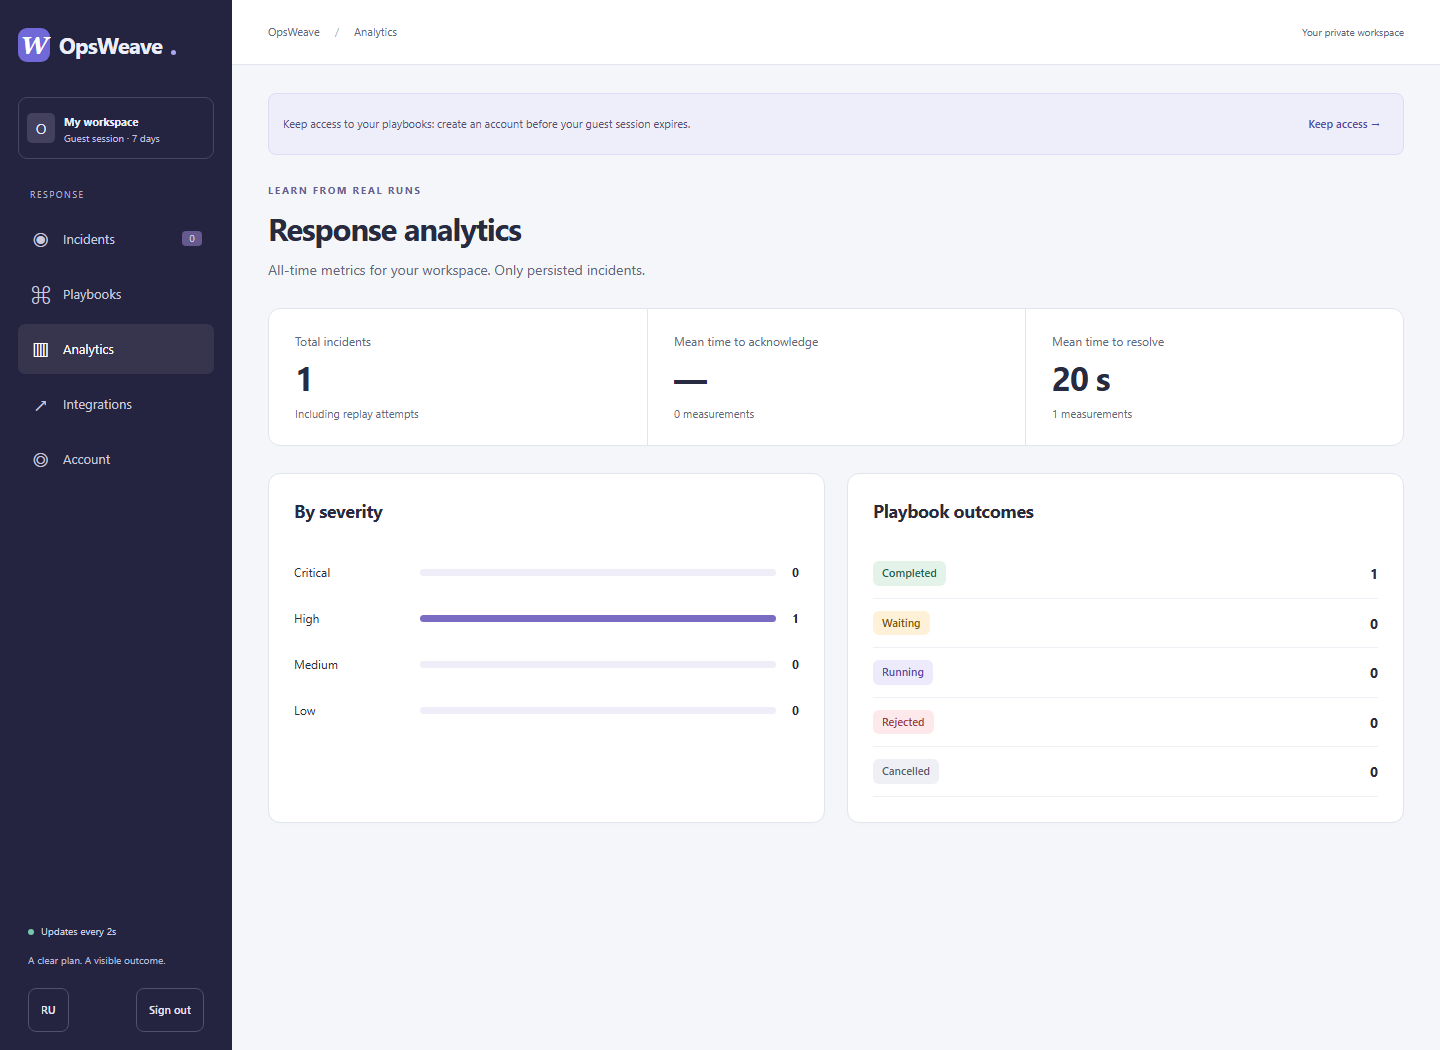
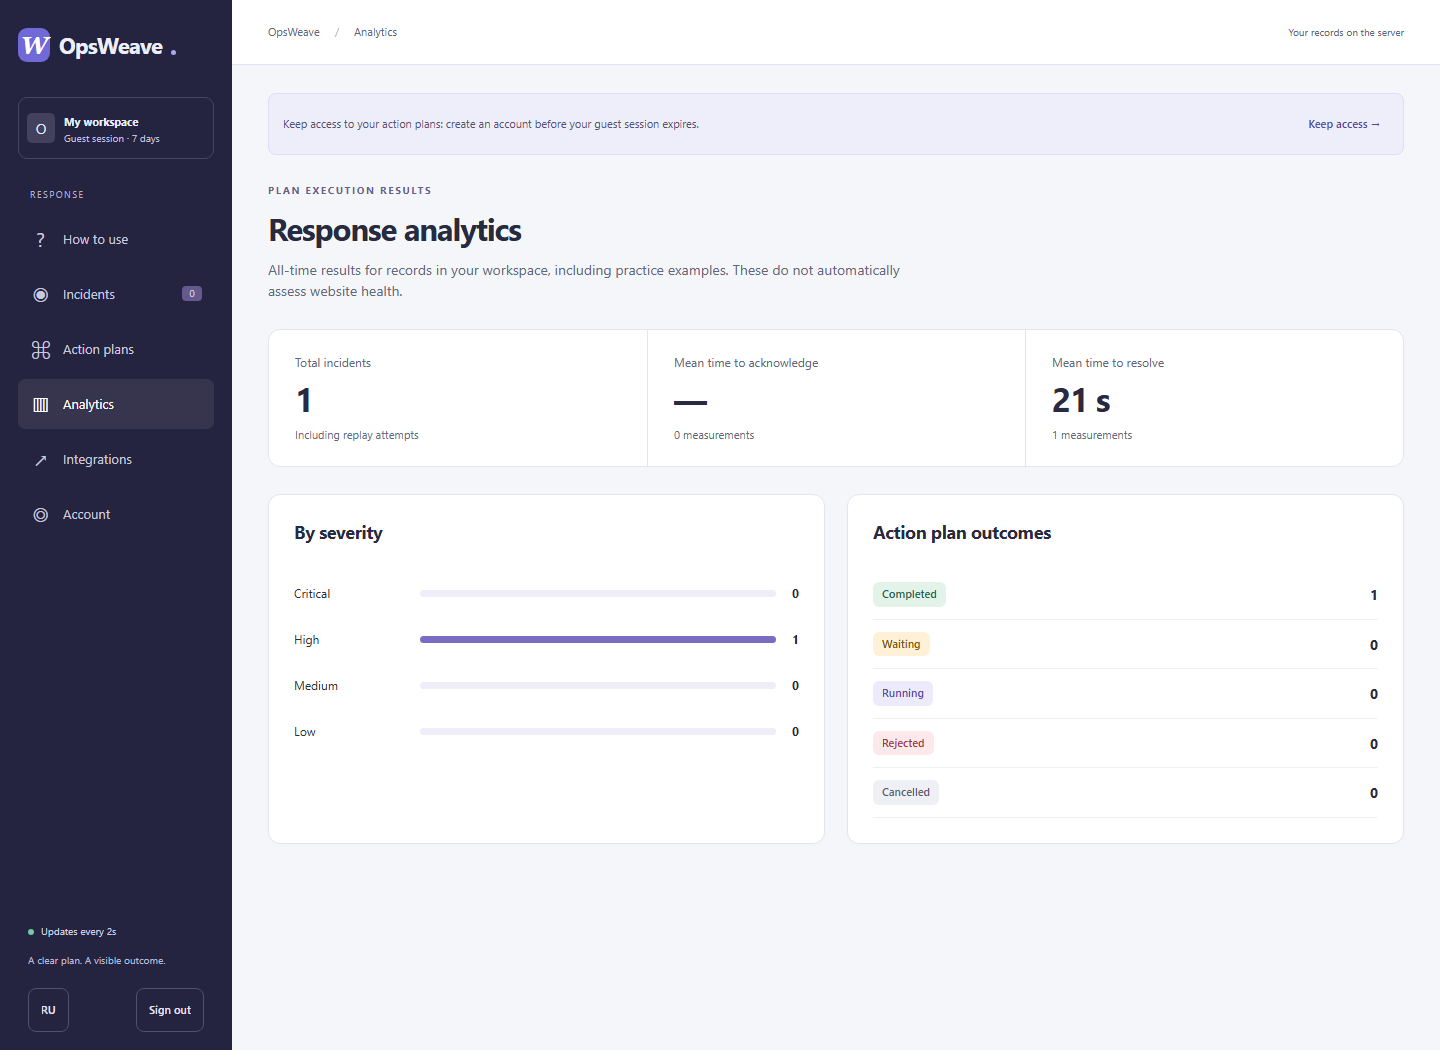
test: wait for restored execution and record public V3 verification

diff --git a/docs/VERIFICATION.md b/docs/VERIFICATION.md
@@ -15,7 +15,7 @@ Scope: the existing standalone product only. The user authorized the V3 assignme
 - Responsive assertions cover RU/EN welcome, guidance, editor, incident creation/execution, lists and remaining navigation at 320/360/390/430/539/540/541/768/849/850/851/1024/1149/1150/1151/1280/1440/1920/2560/3840/5120/7680 CSS px; empty/one/two/eight plans, long unbroken names, injected API 503 with preserved draft, reduced motion, touch, keyboard, Escape and focus return. CSS 200% zoom and a 320×240 viewport representing 400% reflow are checked.
 - Axe 4.13.0 (already installed, no dependency added): zero WCAG 2 A/AA, 2.1 AA, 2.2 AA tagged violations on welcome + intro guide, authenticated guide and editor, each at 320 and 1440 px, in Chromium, Firefox and WebKit. This is an automated check, not WCAG certification.
 - Browser tests use one worker, engines sequentially, separate per-run schemas in the existing expendable opsweave_test Postgres. Independent guest/account contexts confirm cross-owner read/export/write refusal. No user database/storage was cleared. Only the project-owned test container was started; no neighboring project or browser tab was altered.
-- Bundle: initial JS 68.98 KB gzip; product 29.58 KB; lazy guide/practice 3.90 KB; editor 4.13 KB; CSS 5.58 KB (rounded; final build output is authoritative). No field INP or real-device claim.
+- Bundle: initial JS 68.98 KB gzip; product 29.57 KB; lazy guide/practice 3.90 KB; editor 4.13 KB; CSS 5.58 KB (rounded; final build output is authoritative). No field INP or real-device claim.
 
 ### Failures and fixes retained
 
@@ -25,7 +25,11 @@ WebKit exposed actual horizontal overflow from a long native select option at 32
 
 ### Publication and limits
 
-V3 publication is pending at this checkpoint; the previously released site remains live. PR/CI/deploy and public workflow results will be recorded here after publication. No paid resource is authorized or required. Real iPhone Safari, physical TV/8K hardware, assistive-technology user testing, field performance and a usability study with new users have not been performed. WebKit and extreme widths are browser emulation. Existing free-host delays/quotas and historical unfixed OS advisories remain as documented below.
+**V3 is live at https://opsweave.onrender.com.** [PR #2](https://github.com/godaylor/opsweave/pull/2) merged as runtime commit 65b2dcb775a8b813f47edf0b0d0c093526583e8a. [PR CI](https://github.com/godaylor/opsweave/actions/runs/36371906448) and [main CI](https://github.com/godaylor/opsweave/actions/runs/36372119135) both PASS, including PostgreSQL, browser, dependency advisory/closure and Docker build gates. Render Free deploy dep-dastho17lnhs73ap85m0 is Live for that commit; no disk or database/secret changes. Public health returns ready/postgres/ready. All five JS/CSS assets match the tested local build byte-for-byte by SHA-256.
+
+Public Chromium verification on that runtime: desktop create/publish → task → confirmation → timer → completion/reload/history/JSON/EN PASS (44.1s), mobile 390px flow PASS (8.4s), guided private checkout practice PASS (1.3m). The latter includes mandatory-confirmation bypass rejection, saved task/confirmation notes, history order, reload + back/forward, persistent guide dismissal, export focus and a second isolated guest receiving 404 for the first guest’s export. The large responsive matrix, registered-account fixtures and axe checks remain local-only; their public skips are intentional and are not reported as public passes. Public 320px welcome screenshot/no-overflow also PASS. Representative screenshots were inspected visually and are in screenshots/v3-welcome-320.png, screenshots/v3-confirmation.png and screenshots/v3-history.png.
+
+The first public guide run completed the plan and verified its export but failed the focus assertion: the test requested a guide target before the execution finished loading after refresh. The UI correctly showed the existing unavailable-target fallback. The test now waits for the visible completed-plan heading before checking focus; the strict focus assertion is unchanged. The targeted public rerun passed, retries=0. This earlier failure is retained; it is not claimed as a clean first-run pass. No runtime correction or data reset was needed. No paid resource is authorized or required. Real iPhone Safari, physical TV/8K hardware, assistive-technology user testing, field performance and a usability study with new users have not been performed. WebKit and extreme widths are browser emulation. Existing free-host delays/quotas and historical unfixed OS advisories remain as documented below.
 
 ## Public release — 2026-09-18
 

diff --git a/README.md b/README.md
@@ -6,7 +6,7 @@
 
 Это рабочее приложение с сервером и базой данных. Гостевой вход создаёт отдельное личное пространство, без общих демонстрационных данных. Аккаунт сохраняет доступ между устройствами. RU включён по умолчанию; EN переключается в интерфейсе.
 
-**Live app: [opsweave.onrender.com](https://opsweave.onrender.com)** — Render Free without a disk + Neon Free PostgreSQL (Frankfurt). Full public desktop/mobile workflow verified on 2026-09-18. The first request after inactivity can take 50 seconds or more.
+**Live app: [opsweave.onrender.com](https://opsweave.onrender.com)** — Render Free without a disk + Neon Free PostgreSQL (Frankfurt). Guided practice and desktop/mobile workflows verified publicly on 2026-09-28. The first request after inactivity can take 50 seconds or more.
 
 ![Incident response with a real action](screenshots/03-incident-action.png)
 
